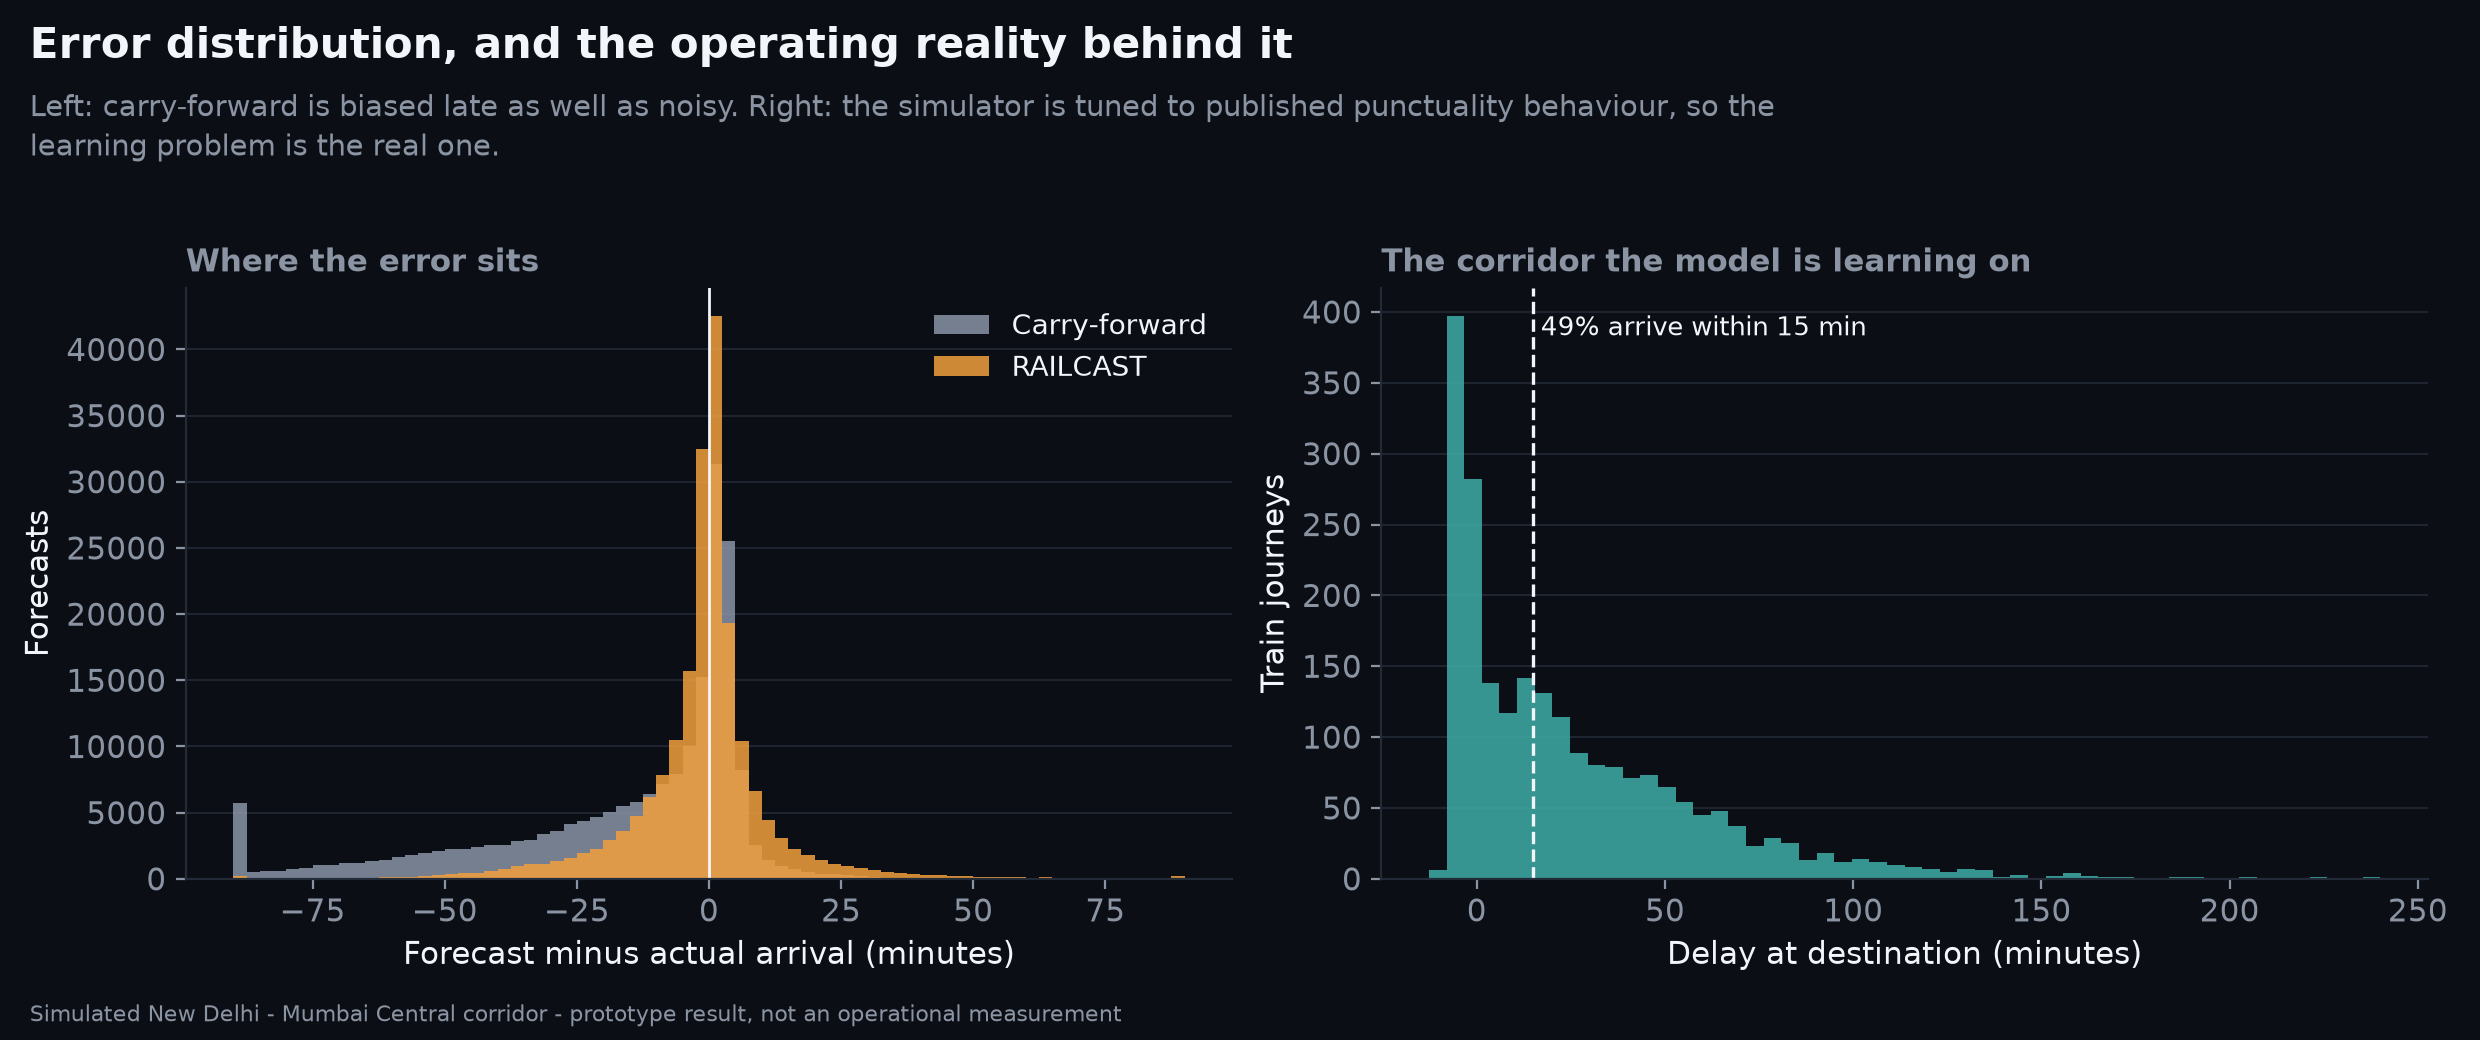
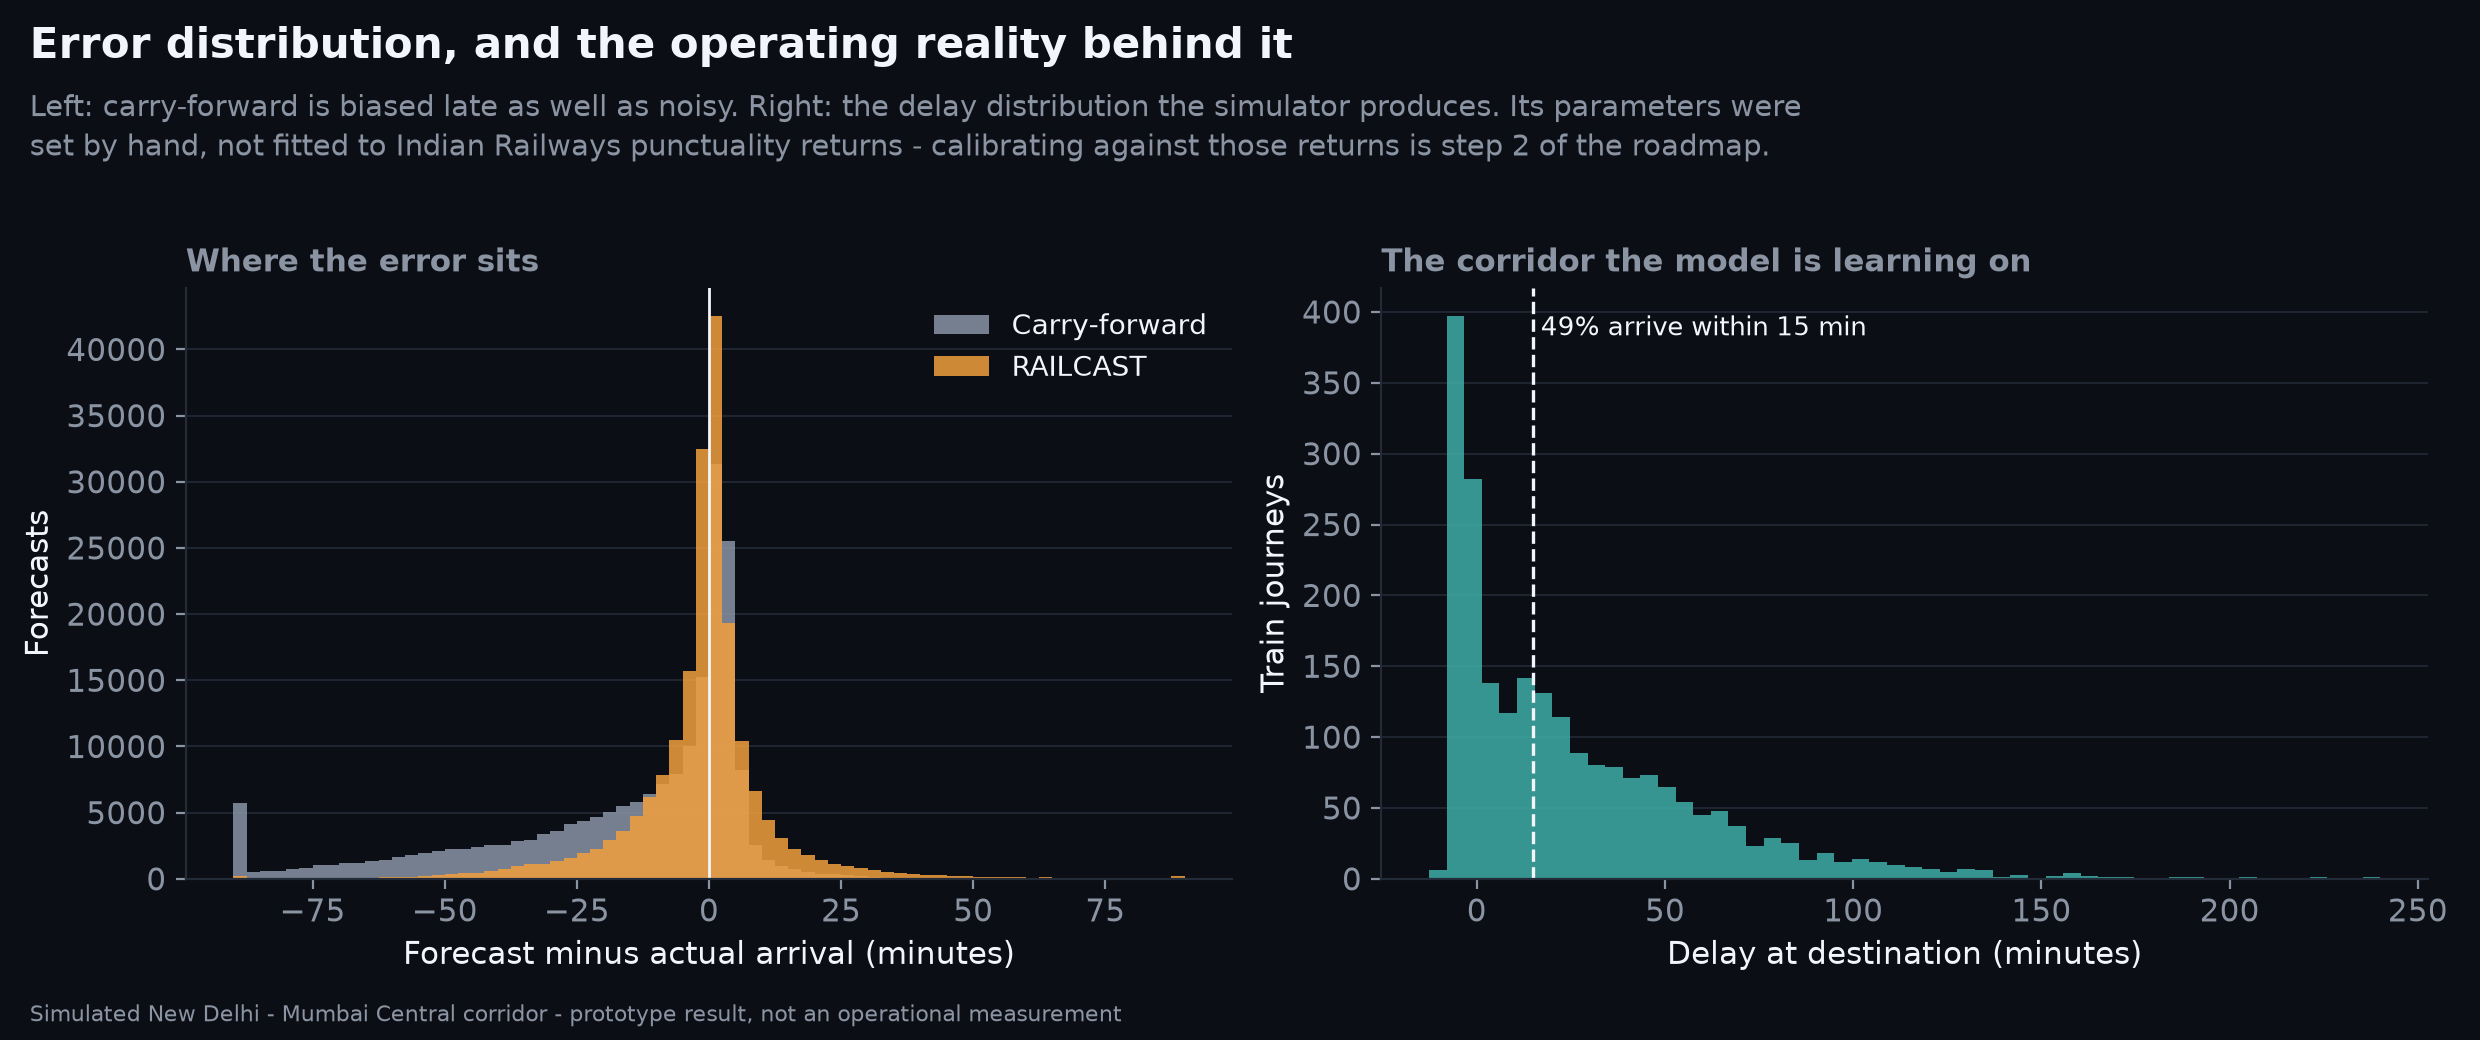
docs: correct an overclaim about the simulator's calibration
Chart 13 said the simulator was 'tuned to published punctuality behaviour'.
It was not. Its parameters were set by hand until the delay distribution
looked plausible; fitting them against Indian Railways punctuality returns is
step 2 of the roadmap and has not been done.

The README and RESULTS.md now state the provenance plainly: every number comes
from a simulator, no Indian Railways data was used, downloaded or consulted,
and station names, km posts and train numbers are approximate. What the
results establish is that the method works on a problem of the right shape -
not field performance.

Changed region(s): [[0.0, 0.0923, 0.7452, 0.1538]]

diff --git a/run_prototype.py b/run_prototype.py
@@ -113,11 +113,18 @@ def write_results_md(summary, tables, prec, conn, lat, card):
         "",
         "## Honesty note for the deck",
         "",
-        "These are **prototype results on a simulated corridor**, not measurements "
-        "on Indian Railways data. The simulator generates conflicts, weather and "
-        "incidents the forecaster cannot see, and the baseline is computed on "
-        "exactly the same rows - but the numbers are evidence that the method "
-        "works, not evidence of field performance. Label every chart that way.",
+        "**Every number above comes from a simulator. No Indian Railways data was "
+        "used, downloaded or consulted.** Station names, km posts and train "
+        "numbers are approximate; timetables, running times, delays, conflicts "
+        "and weather are all generated. The simulator's parameters were set by "
+        "hand until punctuality looked plausible - they were not fitted to "
+        "published punctuality returns, which is step 2 of the roadmap.",
+        "",
+        "What this does establish: the forecaster never sees the noise that "
+        "generates the delay, the baseline is computed on exactly the same rows, "
+        "and the split is temporal. That is evidence the method works on a "
+        "problem of the right shape - not evidence of field performance. Label "
+        "every chart that way.",
         "",
     ]
     Path("outputs/RESULTS.md").write_text(chr(10).join(lines), encoding="utf-8")

diff --git a/railcast/charts.py b/railcast/charts.py
@@ -552,8 +552,9 @@ def c13_error_distribution(ctx, theme):
                   color=t["mute"], loc="left")
     _finish(fig, [ax, ax2], t, "Error distribution, and the operating reality behind it",
             "Left: carry-forward is biased late as well as noisy. Right: the "
-            "simulator is tuned to published punctuality behaviour, so the "
-            "learning problem is the real one.")
+            "delay distribution the simulator produces. Its parameters were set "
+            "by hand, not fitted to Indian Railways punctuality returns - "
+            "calibrating against those returns is step 2 of the roadmap.")
     _save(fig, "13_error_distribution", theme)
 
 

diff --git a/README.md b/README.md
@@ -59,11 +59,21 @@ looped for faster ones behind them.
 
 ## The honesty line
 
-**These are prototype results on a simulated corridor, not measurements on
-Indian Railways data.** The simulator is tuned so corridor punctuality sits in a
-plausible band (roughly half of journeys arriving within 15 minutes, median
-about 15 minutes late), and the forecaster never sees the noise that generates
-the delay — but a simulator validating a method is not a field trial.
+**Every number here comes from a simulator I wrote. No Indian Railways data was
+used, downloaded, or consulted.** Station names, km posts and train numbers are
+written from general knowledge of the route and are approximate. Timetables,
+running times, delays, conflicts and weather are all generated.
+
+The simulator's parameters were set by hand until corridor punctuality looked
+plausible - roughly half of journeys arriving within 15 minutes, median about 15
+minutes late - but they were **not fitted to published punctuality returns**.
+That calibration is step 2 of the roadmap and has not been done.
+
+What the results do show is that the *method* works on a problem with the right
+shape: the forecaster never sees the noise that generates the delay, the
+baseline is computed on exactly the same rows, and the split is temporal. What
+they do not show is field performance. A simulator validating a method is not a
+trial.
 
 Every chart carries that caption in its footer. Keep it there. The deck already
 frames its numbers as "targets we will measure against, not results claimed",

diff --git a/outputs/RESULTS.md b/outputs/RESULTS.md
@@ -37,4 +37,6 @@ Simulated punctuality: median 16 min late at destination, P90 71 min, 49% arrivi
 
 ## Honesty note for the deck
 
-These are **prototype results on a simulated corridor**, not measurements on Indian Railways data. The simulator generates conflicts, weather and incidents the forecaster cannot see, and the baseline is computed on exactly the same rows - but the numbers are evidence that the method works, not evidence of field performance. Label every chart that way.
+**Every number above comes from a simulator. No Indian Railways data was used, downloaded or consulted.** Station names, km posts and train numbers are approximate; timetables, running times, delays, conflicts and weather are all generated. The simulator's parameters were set by hand until punctuality looked plausible - they were not fitted to published punctuality returns, which is step 2 of the roadmap.
+
+What this does establish: the forecaster never sees the noise that generates the delay, the baseline is computed on exactly the same rows, and the split is temporal. That is evidence the method works on a problem of the right shape - not evidence of field performance. Label every chart that way.
